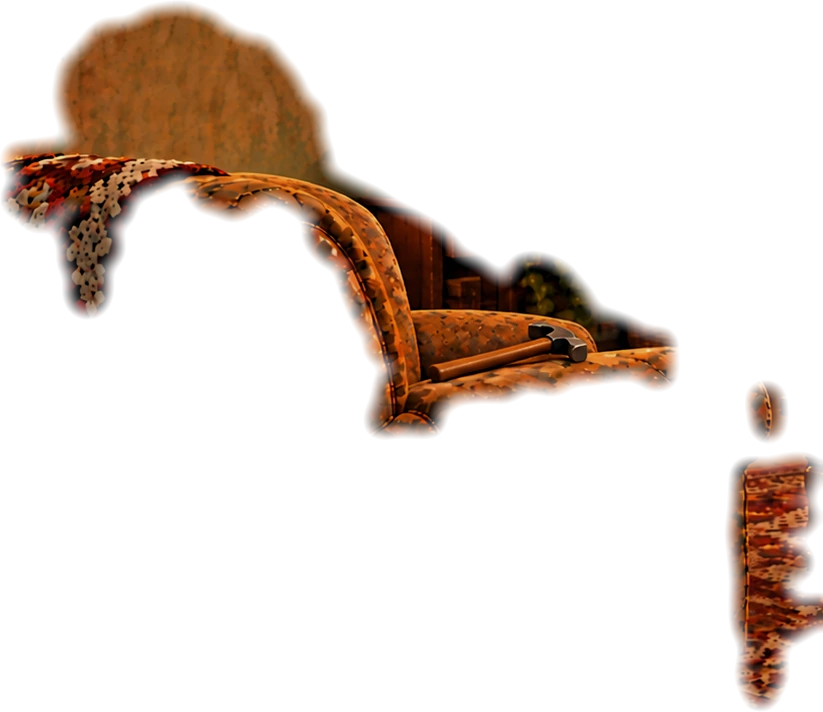
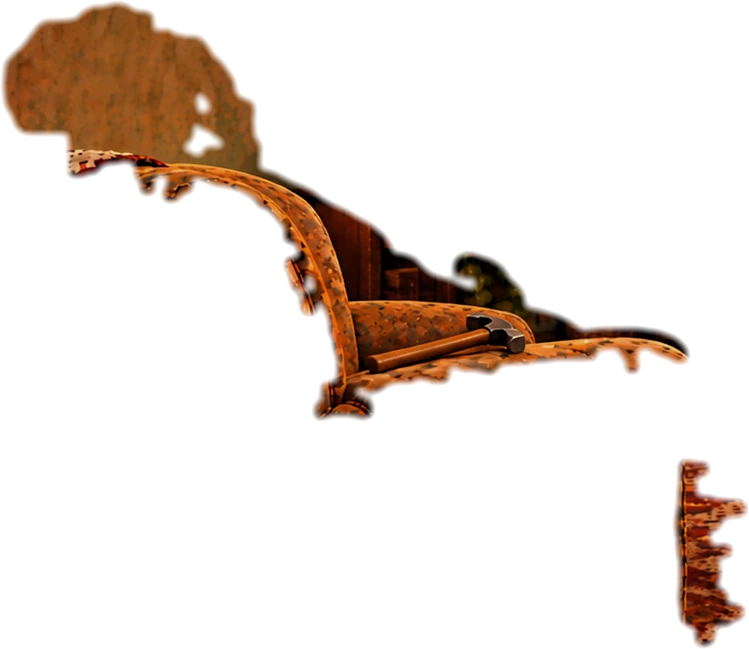
Sessel ohne Fleck an der Wand

Changed region(s): [[0.0, 0.0, 1.0, 1.0], [0.1842, 0.1233, 0.215, 0.1541]]

diff --git a/quest-ostern.html b/quest-ostern.html
@@ -342,7 +342,8 @@
     { id: 'spind_nah', istNah: true, name: 'Spind rechts — von nahem', bild: 'bilder/spind-nah.webp', breite: 1024, hoehe: 1536 },
     { id: 'gruen_nah', istNah: true, name: 'Unterschrank — von nahem', bild: 'bilder/gruen-nah.webp', breite: 1448, hoehe: 1086 },
     { id: 'kiste_nah', istNah: true, name: 'Blechkiste', bild: 'bilder/kiste-nah.webp', breite: 1361, hoehe: 1028 },
-    { id: 'sessel_nah', istNah: true, name: 'Anfisas Sessel', bild: 'bilder/sessel-nah.webp', breite: 1774, hoehe: 887 }
+    { id: 'sessel_nah', istNah: true, name: 'Anfisas Sessel', bild: 'bilder/sessel-nah.webp', breite: 1774, hoehe: 887 },
+    { id: 'tisch_nah',  istNah: true, name: 'Couchtisch',      bild: 'bilder/tisch-nah.webp',  breite: 1774, hoehe: 887 }
   ];
 
   // Gegenstände im Inventar. nah = ID der Nahansicht, die ein Klick darauf öffnet.
@@ -357,6 +358,7 @@
       schaltet: 'lampe_an', nurWenn: 'lampe_bereit', fehlt: 'Tote Lampe. Da müssen Batterien rein.' },
     { id: 'batterien',  symbol: '🔋', name: 'Batterien', text: 'Zwei Batterien. Sehen noch brauchbar aus.' },
     { id: 'feuerzeug',  symbol: '🔥', name: 'Feuerzeug', text: 'Ein abgegriffenes Feuerzeug. Tut es noch.' },
+    { id: 'sicherung',  symbol: '🧯', name: 'Sicherung', text: 'Eine Schraubsicherung aus Porzellan. Sieht unverbraucht aus.' },
     { id: 'hammer',     symbol: '🔨', name: 'Hammer',    text: 'Anfisas Hammer. Schwer, der Stiel ist speckig vom vielen Anfassen.' }
   ];
 
@@ -393,12 +395,13 @@
     // --- Garage (Koordinaten im Bild 1774 x 887) ---
     // typ 'ausschnitt': Antippen blendet diesen Bereich aus bildOffen ein. nah = Bild der Nahaufnahme (später).
     { id: 'g_akten',   ansicht: 'garage1', x: 88,   y: 428, w: 165, h: 85,  typ: 'ausschnitt', zustand: 'akten_offen',  label: 'Aktenschrank-Schublade', nah: '' },
-    { id: 'g_tuer',    ansicht: 'garage1', x: 318,  y: 588, w: 135, h: 255, typ: 'ausschnitt', zustand: 'tuer_offen',   label: 'Grüner Unterschrank',    nah: '' },
     { id: 'g_blau',    ansicht: 'garage1', x: 536,  y: 586, w: 170, h: 70,  typ: 'ausschnitt', zustand: 'blau_offen',   label: 'Blauer Rollcontainer',   nah: '' },
     { id: 'g_steck',   ansicht: 'garage1', x: 1096, y: 668, w: 215, h: 85,  typ: 'ausschnitt', zustand: 'steck_offen',  label: 'Steckschlüssel-Schublade', nah: '' },
     { id: 'g_wagen',   ansicht: 'garage1', x: 1330, y: 584, w: 318, h: 258, typ: 'ausschnitt', zustand: 'wagen_offen',  label: 'Roter Werkstattwagen',   nah: '' },
     { id: 'g_batterien', ansicht: 'garage1', x: 1110, y: 676, w: 80, h: 62, typ: 'nehmen', zustand: 'batterien_weg',
       gibt: 'batterien', sichtbarWenn: 'steck_offen', label: 'Batterien' },
+    { id: 'g_sicherung', ansicht: 'garage1', x: 1480, y: 650, w: 88, h: 64, typ: 'nehmen', zustand: 'sicherung_genommen',
+      gibt: 'sicherung', sichtbarWenn: 'wagen_offen', label: 'Sicherung' },
     { id: 'g_zettel',  ansicht: 'garage1', x: 1055, y: 12,  w: 180, h: 112, typ: 'info', label: 'Zeichnung an der Wand',
       titel: 'Notiz am Rand der Zeichnung', text: '[PLATZHALTER — Text kommt, sobald klar ist, wozu der Code gehört] „Vier Ziffern. Wenn du sie nicht weisst, hast du nicht zugehört." — Anfisa' },
     // --- Garage, Ansicht 2: Türseite (Koordinaten im Bild 1774 x 887) ---
@@ -413,6 +416,10 @@
     { id: 'ki_feuerzeug', ansicht: 'kiste_nah', x: 478, y: 558, w: 410, h: 219, typ: 'nehmen', zustand: 'feuerzeug_weg',
       gibt: 'feuerzeug', label: 'Feuerzeug',
       patch: 'bilder/kiste-feuerzeug.webp', patchNicht: true, patchX: 483, patchY: 563, patchW: 400, patchH: 209 },
+    // Hinter der geschlossenen Tür ist es dunkel, solange im Treppenhaus kein Licht brennt
+    { id: 'g2_fenster', ansicht: 'garage2', x: 1162, y: 242, w: 130, h: 186, typ: 'overlay',
+      nichtWenn: 'th_licht,g2_tuer_offen', label: 'Türfenster',
+      patch: 'bilder/g2-fenster-dunkel.webp', patchNicht: true, patchX: 1162, patchY: 242, patchW: 130, patchH: 186 },
     { id: 'g2_tuer',  ansicht: 'garage2', x: 1045, y: 110, w: 390, h: 720, klang: 'metall', typ: 'ausschnitt', zustand: 'g2_tuer_offen',  label: 'Tür zum Treppenhaus',
       hellWenn: 'th_licht',
       patch: 'bilder/g2-tuer-dunkel.webp', patchX: 1039, patchY: 104, patchW: 402, patchH: 732,
@@ -454,8 +461,11 @@
     // Jeder Klick geht eine Phase weiter, nach der letzten wieder zurück auf schlafend.
     // Sessel ohne Anfisa. Liegt vor dem Bild an der Wand, damit ein abgehängtes Bild
     // nicht wieder auftaucht, wenn sie weg ist.
-    { id: 'w_sessel_leer', ansicht: 'wohnzimmer', x: 177, y: 124, w: 823, h: 712, typ: 'overlay', zustand: 'anfisa_weg',
-      patch: 'bilder/wz-sessel-leer.webp', patchX: 177, patchY: 124, patchW: 823, patchH: 712, label: 'Sessel' },
+    // Eng freigestellt: nur Anfisa selbst. Ein grosszuegigerer Rand nimmt Wand
+    // mit, und die ist im Leer-Bild deutlich anders gezeichnet (Abweichung 19
+    // gegenueber 6 beim Rest des Raums) — das sieht man dann als Fleck.
+    { id: 'w_sessel_leer', ansicht: 'wohnzimmer', x: 239, y: 133, w: 749, h: 649, typ: 'overlay', zustand: 'anfisa_weg',
+      patch: 'bilder/wz-sessel-leer.webp', patchX: 239, patchY: 133, patchW: 749, patchH: 649, label: 'Sessel' },
     { id: 'w_gemaelde', ansicht: 'wohnzimmer', x: 415, y: 0, w: 275, h: 188, typ: 'nehmen', zustand: 'bild_ab', gibt: 'gemaelde',
       patch: 'bilder/wz-bild-ab.webp', patchX: 405, patchY: 0, patchW: 292, patchH: 195, label: 'Bild an der Wand' },
     // Der leere Nagel: nimmt das Bild wieder entgegen. Nur da, solange es fehlt.
@@ -464,6 +474,10 @@
     // Erst wenn Anfisa weg ist, kommt man an den Sessel heran
     { id: 'w_sessel', ansicht: 'wohnzimmer', x: 250, y: 430, w: 520, h: 250, typ: 'naehe', nah: 'sessel_nah',
       sichtbarWenn: 'anfisa_weg', label: 'Sessel' },
+    { id: 'w_tisch', ansicht: 'wohnzimmer', x: 970, y: 505, w: 240, h: 65, typ: 'naehe', nah: 'tisch_nah', label: 'Couchtisch' },
+    // Der Tassenrand liegt über den Eiern, damit das Ei wirklich in der Tasse steckt
+    { id: 'ti_rand', ansicht: 'tisch_nah', x: 139, y: 224, w: 452, h: 132, typ: 'overlay', vorn: true, label: 'Tassenrand',
+      patch: 'bilder/tisch-tassenrand.webp', patchX: 139, patchY: 224, patchW: 452, patchH: 132 },
     { id: 'w_tv', ansicht: 'wohnzimmer', x: 1408, y: 148, w: 217, h: 200, klang: 'metall', typ: 'ausschnitt', zustand: 'tv_aus',
       patch: 'bilder/wz-tv-aus.webp', patchX: 1402, patchY: 142, patchW: 229, patchH: 206, label: 'Fernseher',
       // Achtung: der Zustand heisst tv_aus. Gesetzt = Fernseher ist AUS.
@@ -535,8 +549,11 @@
       patchHell: 'bilder/kue-sicherung-hell.webp', patchHellX: 238, patchHellY: 205, patchHellW: 181, patchHellH: 200 },
     // Die Sicherung selbst, erst sichtbar wenn das Schränkchen offen ist.
     // VORLÄUFIG schaltet ein Klick direkt das Licht. Die Nahaufnahme kommt später.
-    { id: 'k_licht', ansicht: 'kueche', x: 330, y: 238, w: 78, h: 155, typ: 'toggle', zustand: 'kueche_licht',
-      sichtbarWenn: 'sicherung_offen', neuzeichnen: true, label: 'Sicherung' },
+    // Der leere Sicherungssockel. Erst mit der Sicherung aus der Garage gibt es Licht.
+    { id: 'k_licht', ansicht: 'kueche', x: 330, y: 238, w: 78, h: 155, typ: 'ziel', zustand: 'kueche_licht',
+      sichtbarWenn: 'sicherung_offen', label: 'Sicherungssockel',
+      nimmt: 'sicherung', setzt: 'kueche_licht', verbraucht: true,
+      antwort: 'Die Sicherung sitzt. Irgendwo in der Küche klackt es, dann geht das Licht an.' },
     // Zwei Gruppen statt sieben Einzeltüren: Die Türen schwingen über die
     // Feldgrenzen hinweg. Bei einer feineren Teilung steht an der Trennlinie
     // eine offene Tür ohne ihren Schrank.
@@ -575,9 +592,9 @@
   const EIER = [
     // --- Ebene 1: sichtbar, getarnt ---
     { id: 'e01', ansicht: 'garage1',     x: 1452, y: 243, r: 7,  farbe: '#6f4d37', muster: 'punkte',   ebene: 1, sichtbarWenn: null },  // Regal oben zwischen den Dosen
-    { id: 'e02', ansicht: 'spind_nah',   x: 355,  y: 540, r: 14, farbe: '#4e4337', muster: 'streifen', ebene: 2, sichtbarWenn: 'dose_verschoben' },  // hinter der Spraydose im Spind
+    { id: 'e02', ansicht: 'spind_nah',   x: 352,  y: 608, r: 22, farbe: '#4e4337', muster: 'streifen', ebene: 2, sichtbarWenn: 'dose_verschoben' },  // hinter der Spraydose im Spind, steht auf dem Boden
     { id: 'e05', ansicht: 'garage1',     x: 1395, y: 432, r: 6,  farbe: '#27282c', muster: 'zickzack', ebene: 1, sichtbarWenn: null },  // im Schubladenkasten
-    { id: 'e08', ansicht: 'kiste_nah',   x: 1010, y: 620, r: 17, farbe: '#7a7a52', muster: 'punkte',   ebene: 2, sichtbarWenn: null },  // in der Blechkiste
+    { id: 'e08', ansicht: 'kiste_nah',   x: 1010, y: 600, r: 30, farbe: '#7a7a52', muster: 'punkte',   ebene: 2, sichtbarWenn: null },  // in der Blechkiste
     { id: 'e04', ansicht: 'wohnzimmer', x: 1332, y: 712, r: 9,  farbe: '#8a4a3a', muster: 'punkte', ebene: 1, sichtbarWenn: null },  // auf dem Teppich
     { id: 'e03', ansicht: 'kueche',     x: 1318, y: 419, r: 9,  farbe: '#c8703a', muster: 'streifen', ebene: 1, sichtbarWenn: ['kueche_licht'] },  // in der Obstschale
     { id: 'e06', ansicht: 'garten',     x: 1044, y: 846, r: 8,  farbe: '#4e7a3e', muster: 'punkte', ebene: 1, sichtbarWenn: null },
@@ -591,7 +608,7 @@
     { id: 'e14', ansicht: 'kueche',     x: 1497, y: 272, r: 8,  farbe: '#e8d8bc', muster: 'punkte', ebene: 2, sichtbarWenn: ['k_kuehl_offen', 'kueche_licht'] },  // in der Eierablage im Kühlschrank
     { id: 'e15', ansicht: 'garten',     x: 1310, y: 250, r: 11, farbe: '#d08a5a', muster: 'zickzack', ebene: 2, sichtbarWenn: 'vogelhaus_offen' },
     // --- Ebene 3: nur nach Rätsel sichtbar ---
-    { id: 'e16', ansicht: 'wohnzimmer', x: 1150, y: 600, r: 8,  farbe: '#cfc0a4', muster: 'streifen', ebene: 1, sichtbarWenn: null },  // bei den Heften unter dem Couchtisch
+    { id: 'e16', ansicht: 'tisch_nah',  x: 330,  y: 265, r: 30, farbe: '#c9b48a', muster: 'punkte',   ebene: 1, sichtbarWenn: null },  // in der Tasse auf dem Couchtisch
     { id: 'e17', ansicht: 'kueche',     x: 955,  y: 602, r: 9,  farbe: '#5a4a38', muster: 'punkte', ebene: 2, sichtbarWenn: ['k_ofen_offen', 'kueche_licht'] },  // auf dem Rost im Backofen
     { id: 'e18', ansicht: 'garten',     x: 270,  y: 600, r: 12, farbe: '#5a4030', muster: 'zickzack', ebene: 2, sichtbarWenn: 'busch_geteilt' },
     { id: 'e19', ansicht: 'dachboden',  x: 330,  y: 650, r: 12, farbe: '#3a342c', muster: 'streifen', ebene: 2, sichtbarWenn: 'dach_kiste_offen' },
@@ -888,9 +905,7 @@
       // Ausschnitt, Overlay und aufgenommener Gegenstand: Bereich aus einem zweiten Bild einblenden
       const quelle = t.typ === 'nehmen' ? t.bildAus : (t.bildAus || ans.bildOffen);
       // Frei gezeichnetes Teil (SVG), unabhängig vom Grundbild
-      if (t.zeichnung) {
-        return `<g data-offen="${t.zustand || ''}">${t.zeichnung}</g>`;
-      }
+      if (t.zeichnung) return t.zeichnung;
       // Freigestellter Flicken mit Alphakanal: wird an seiner eigenen Stelle
       // eingeblendet, nicht aus einem Vollbild ausgeschnitten. Keine Rechteckkante.
       if (t.patch) {
@@ -939,6 +954,11 @@
     html += `<g id="durchgaenge">${durchgaenge.map(w => durchgangForm(w)).join('')}</g>`;
     // Eier ganz oben, damit sie jeden Klick bekommen
     html += `<g id="eier-vorne">${eierVorne.map(eiForm).join('')}</g>`;
+    // Vordergrund-Flicken liegen ÜBER den Eiern, damit ein Ei in einer Tasse
+    // vom Rand verdeckt wird, statt daraufgemalt zu wirken
+    html += `<g id="vordergrund-teile">${teile.filter(t => t.vorn && t.patch).map(t =>
+      `<image href="${t.patch}" xlink:href="${t.patch}" x="${t.patchX}" y="${t.patchY}" width="${t.patchW}" height="${t.patchH}" style="pointer-events:none"/>`
+    ).join('')}</g>`;
     html += `</svg>`;
     welt.innerHTML = html;
     warteAufBilder();
@@ -1405,6 +1425,29 @@
   // =====================================================================
   // SPIELLOGIK
   // =====================================================================
+  // Nächstes sichtbares, noch nicht gefundenes Ei im Umkreis des Tippens
+  function eiInDerNaehe(cx, cy) {
+    const sv = welt.querySelector('svg');
+    if (!sv) return null;
+    const kasten = sv.getBoundingClientRect();
+    const a = aktuelleAnsicht();
+    const bx = (cx - kasten.left) / kasten.width * (a.breite || 1600);
+    const by = (cy - kasten.top) / kasten.height * (a.hoehe || 900);
+    const schirmZuBild = (a.breite || 1600) / kasten.width;   // Bildpixel je Bildschirmpixel
+    let beste = null, kleinster = Infinity;
+    welt.querySelectorAll('.ei').forEach(el => {
+      if (el.classList.contains('versteckt') || el.classList.contains('gefunden')) return;
+      const ei = EIER.find(e => e.id === el.dataset.ei);
+      if (!ei) return;
+      const rx = ei.r * EI_GROESSE;
+      const grenze = Math.max(rx * 2.2, 26 * schirmZuBild);   // mindestens 26 Bildschirmpixel
+      const dx = bx - ei.x, dy = (by - ei.y) / 1.32;
+      const d = Math.hypot(dx, dy);
+      if (d <= grenze && d < kleinster) { kleinster = d; beste = ei.id; }
+    });
+    return beste;
+  }
+
   function tippe(cx, cy) {
     if (!zustand.laeuft && !EDITOR) return;
     const ziel = document.elementFromPoint(cx, cy);
@@ -1412,6 +1455,10 @@
     if (EDITOR) zeigeKoordinaten(cx, cy, ziel);
     const eiEl = ziel.closest && ziel.closest('.ei');
     if (eiEl) { eiGefunden(eiEl.dataset.ei, cx, cy); return; }
+    // Fangbereich: ein sichtbares Ei in der Nähe zählt auch dann, wenn etwas
+    // anderes darüber liegt oder das Ei beim Herauszoomen winzig ist
+    const nah = eiInDerNaehe(cx, cy);
+    if (nah) { eiGefunden(nah, cx, cy); return; }
     const wegEl = ziel.closest && ziel.closest('.durchgang');
     if (wegEl) { geheZu(wegEl.dataset.weg); return; }
     const teilEl = ziel.closest && ziel.closest('.teil');
